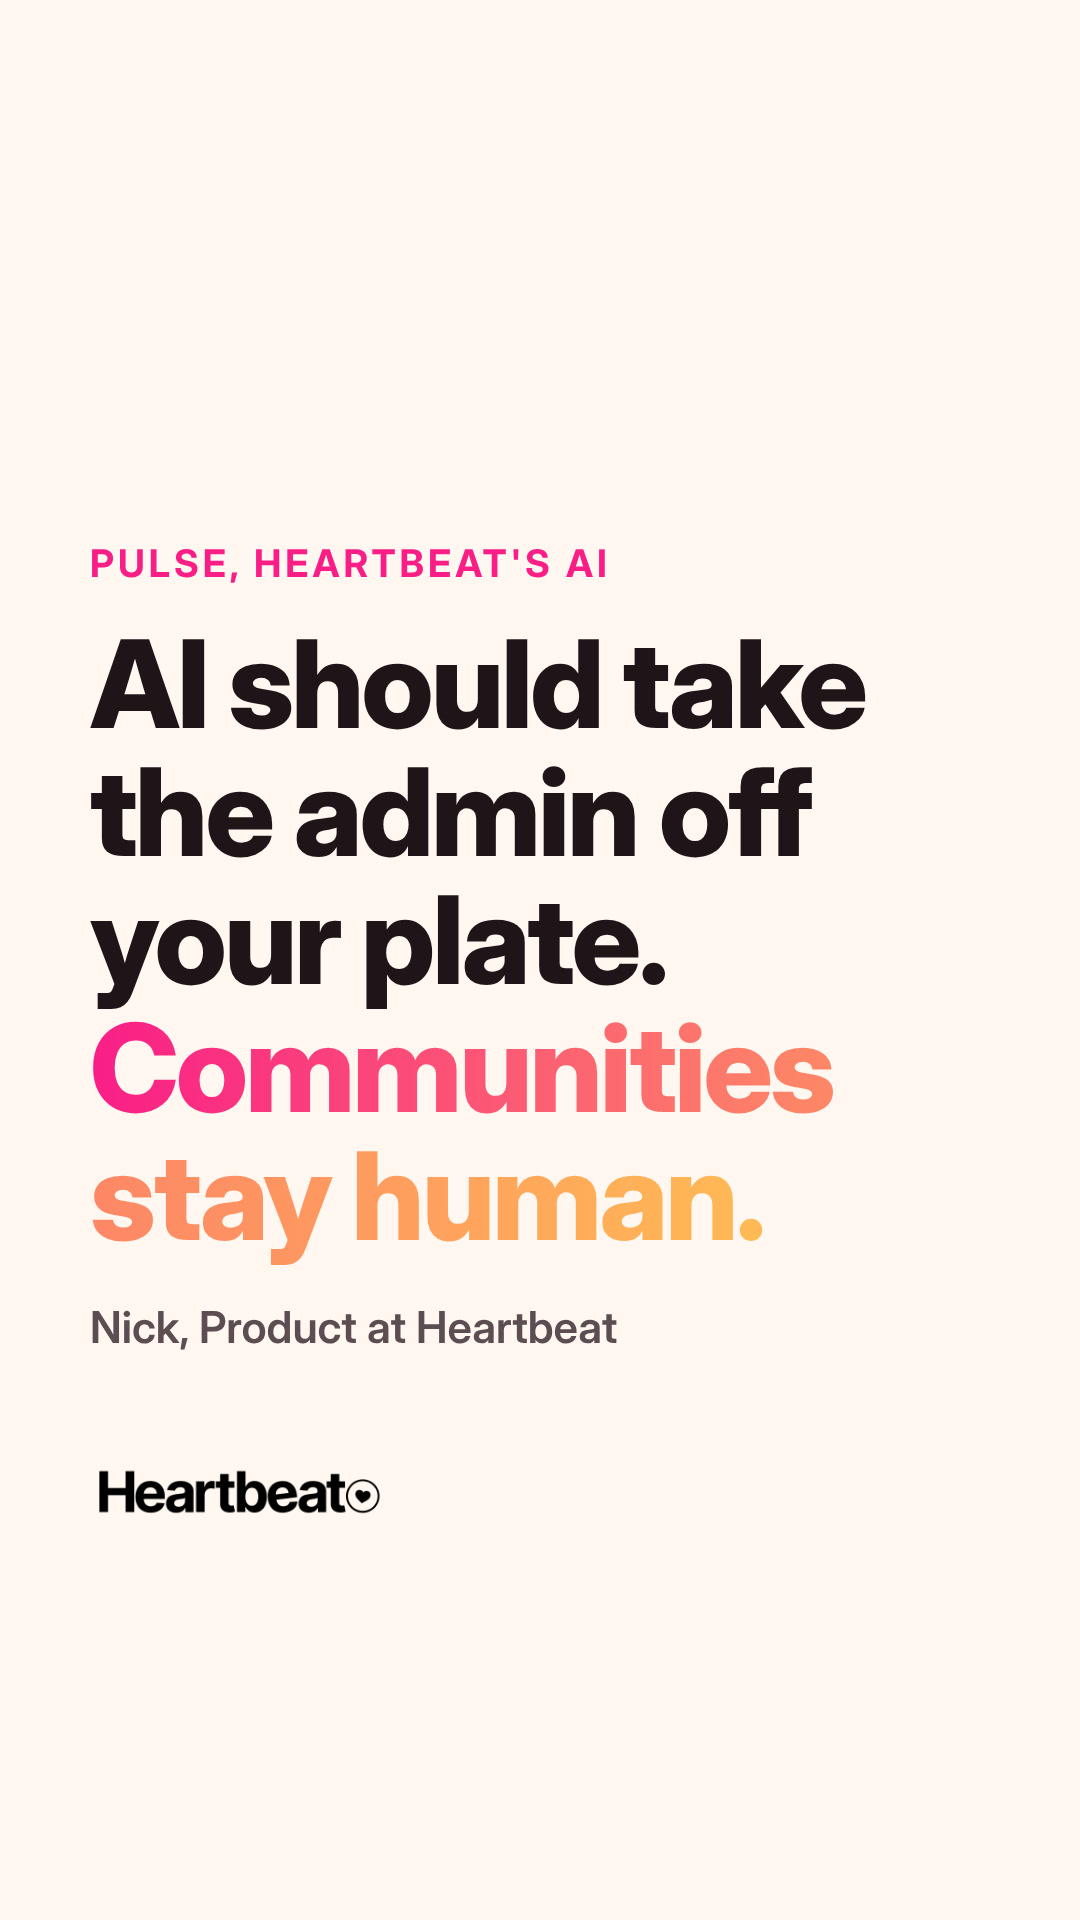
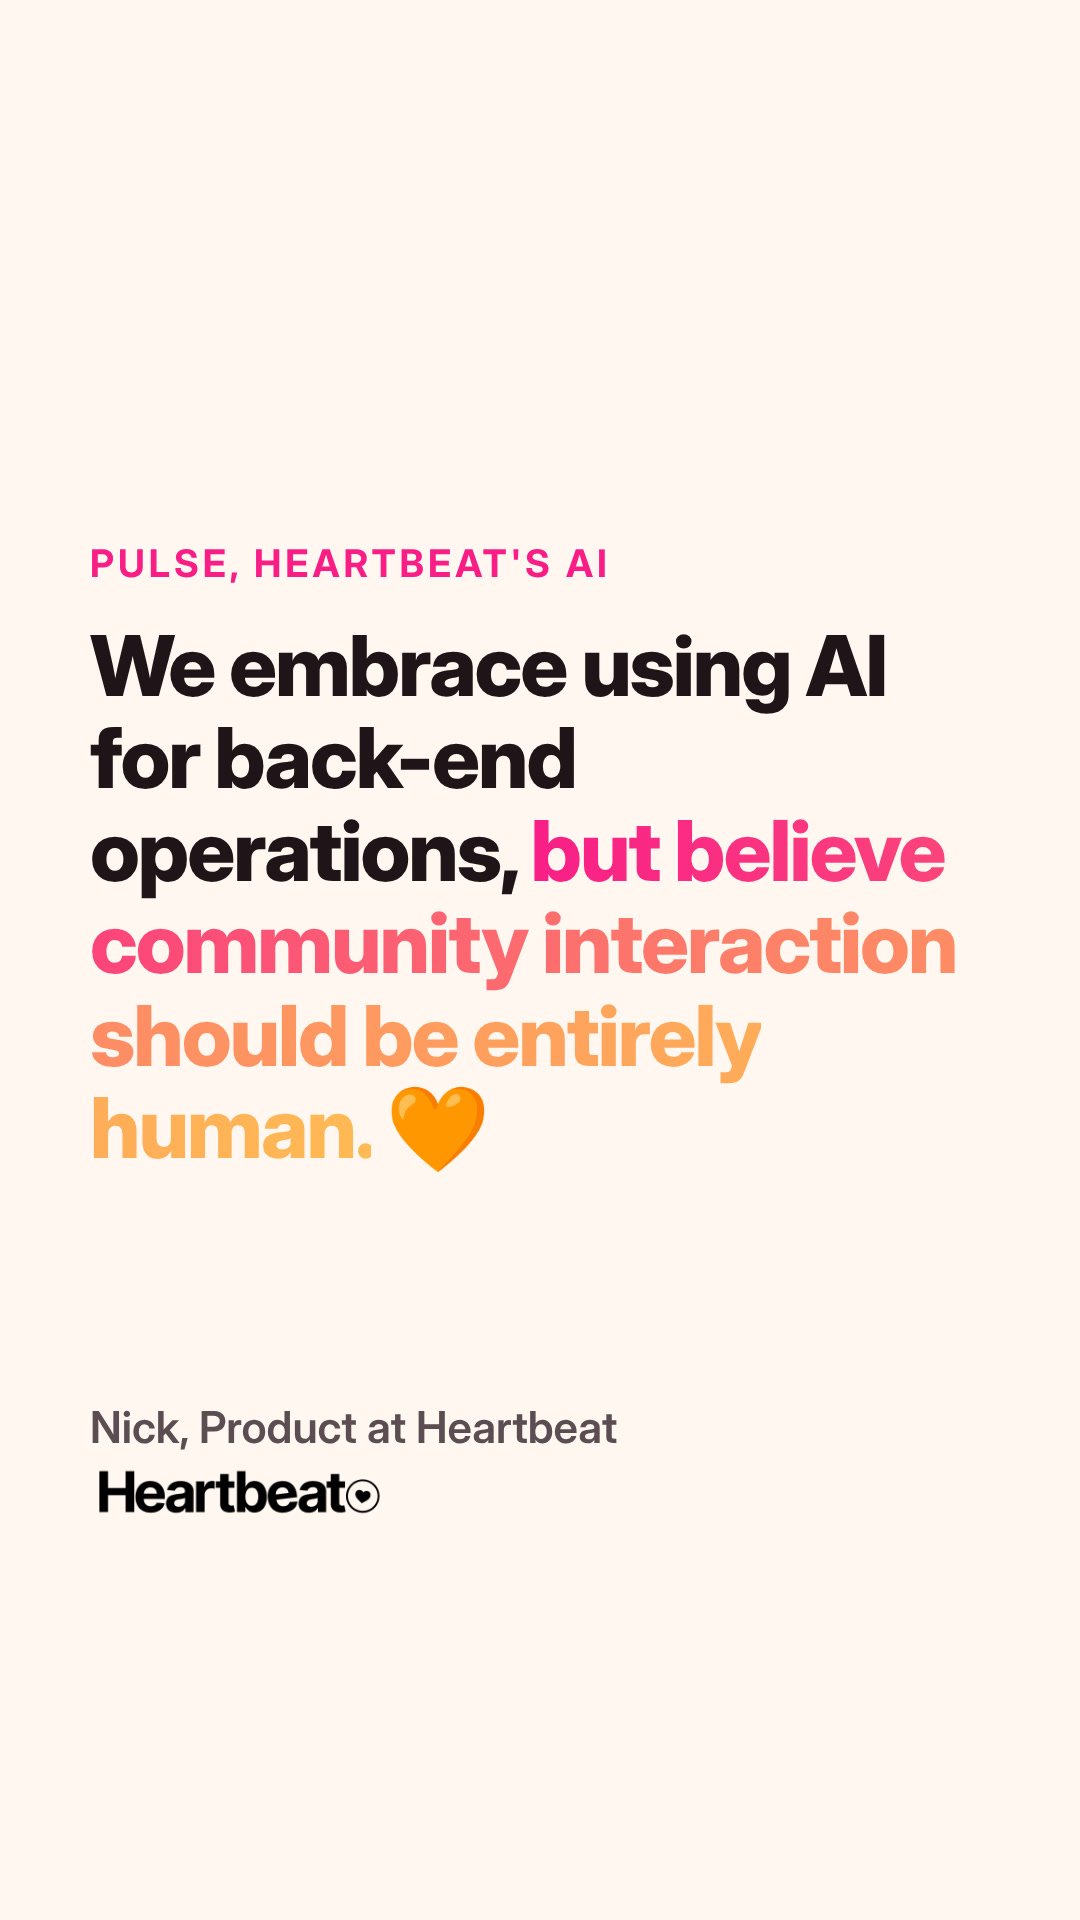
Update 2026-11-22 ai-for-admin cover per Clay edit
Claude-Session: https://claude.ai/code/session_015dzi69vRHw7c64JvWnDcyW

Changed region(s): [[0.0611, 0.3125, 0.8861, 0.6562], [0.0611, 0.6875, 0.5806, 0.75]]

diff --git a/posts/2026-11-22-ai-for-admin/src/reel-cover.html b/posts/2026-11-22-ai-for-admin/src/reel-cover.html
@@ -2,13 +2,13 @@
 <style>
 body{margin:0;width:1080px;height:1920px;background:#FFF7F0;color:#1F1418;font-family:Inter,sans-serif;position:relative;overflow:hidden}
 .k{position:absolute;left:90px;top:540px;font-weight:700;font-size:38px;letter-spacing:4px;text-transform:uppercase;color:#F91E87}
-.t{position:absolute;left:90px;right:90px;top:620px;font-weight:800;font-size:122px;line-height:1.05;letter-spacing:-3px}
+.t{position:absolute;left:90px;right:90px;top:620px;font-weight:800;font-size:84px;line-height:1.1;letter-spacing:-2px}
 .t em{font-style:normal;background:linear-gradient(90deg,#F91E87,#FD8467,#FFBA54);-webkit-background-clip:text;color:transparent}
-.s{position:absolute;left:90px;top:1300px;font-size:44px;font-weight:600;color:#5b4d52}
+.s{position:absolute;left:90px;top:1400px;font-size:44px;font-weight:600;color:#5b4d52}
 .w{position:absolute;left:90px;bottom:400px;height:56px}
 </style></head><body>
 <div class="k">Pulse, Heartbeat's AI</div>
-<div class="t">AI should take the admin off your plate. <em>Communities stay human.</em></div>
+<div class="t">We embrace using AI for back-end operations, <em>but believe community interaction should be entirely human.</em> 🧡</div>
 <div class="s">Nick, Product at Heartbeat</div>
 <img class="w" src="{{ROOT}}/brand/heartbeat-wordmark-black.png">
 </body></html>
